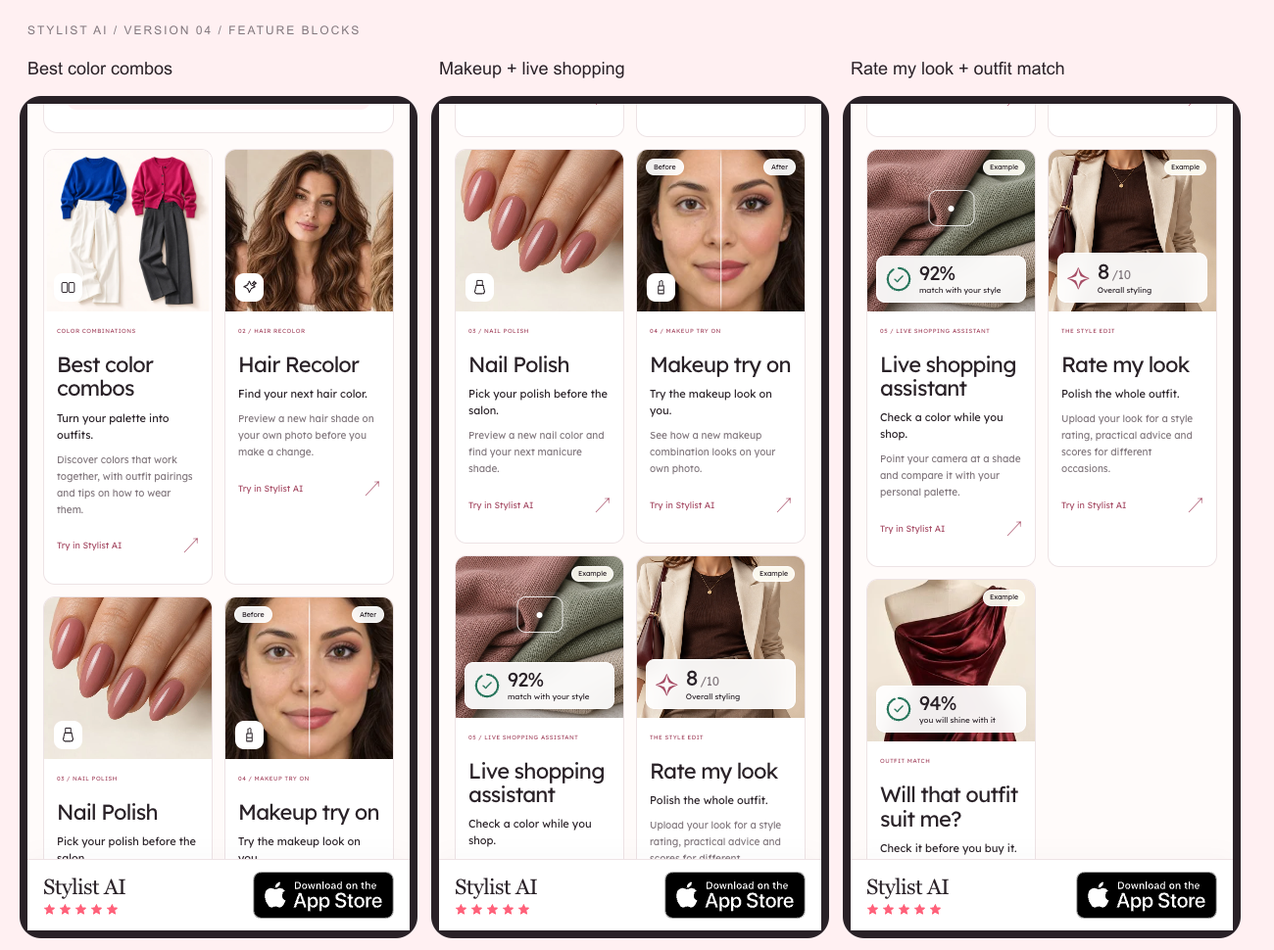
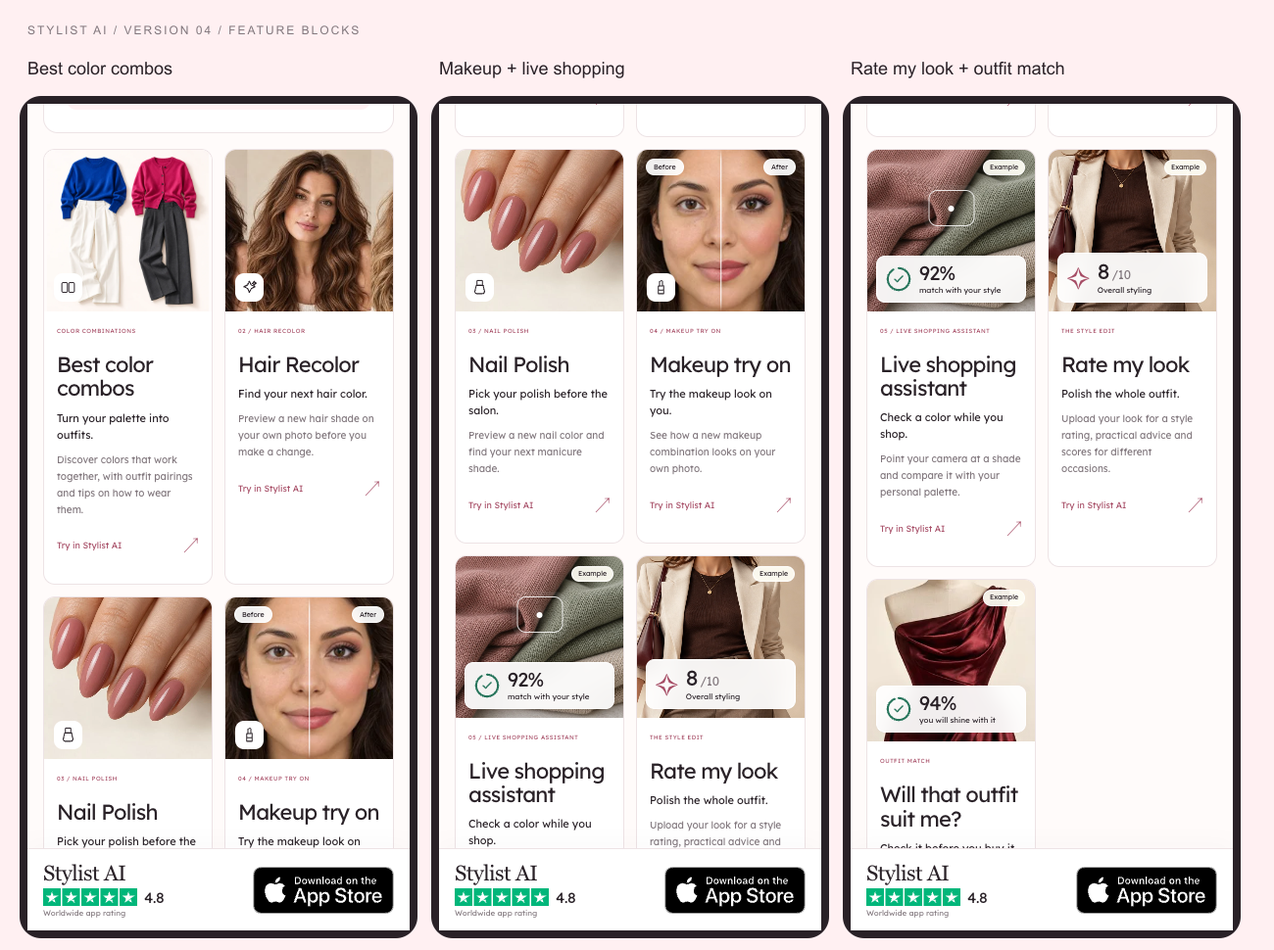
Show owner-supplied worldwide app rating in the download badge

diff --git a/stylist_ai/landing/v2/04-season-spectrum/index.html b/stylist_ai/landing/v2/04-season-spectrum/index.html
@@ -1,3 +1,3 @@
 <!doctype html><html lang="en"><head>
-<meta charset="utf-8"><meta name="viewport" content="width=device-width,initial-scale=1,viewport-fit=cover"><meta name="theme-color" content="#FFFBFA"><title>Find your color season — Stylist AI</title><meta name="description" content="Discover your color season and palette. Try hair and makeup looks, recolor nails, and take your palette shopping with Stylist AI for iPhone."><meta property="og:title" content="Your season. Your palette. Stylist AI."><meta property="og:description" content="Your Color Analysis, color combos, beauty tools, outfit advice & live shopping. Find your colors with Stylist AI."><meta property="og:type" content="website"><meta property="og:image" content="https://bestme.mobi/stylist_ai/landing/v2/assets/social-spectrum.jpg"><link rel="icon" href="../assets/icon.png"><link rel="stylesheet" href="../styles.css?v=2"><script src="../app.js?v=3" defer></script><link rel="stylesheet" href="./spectrum.css?v=9"></head>
-<body class="spectrum" data-variant="04-season-spectrum" id="top"><a class="skip" href="#main">Skip to content</a><header class="site-header container"><a class="brand" href="#top" aria-label="Stylist AI home"><img src="../assets/icon.png" width="28" height="28" alt=""><span>stylist <b>AI</b></span></a><span class="header-caption">COLOR ANALYSIS FOR iPHONE</span></header><main id="main"><section class="hero container" aria-label="Discover your color season"><div class="hero-intro"><h1>What’s your<br><em>color season?</em></h1><p>AI color analysis. Your color season, best palette, personal shopping advice.</p></div><div class="hero-proof"><div class="result-card"><div class="spectrum-pair"><div class="color-halo"><div class="face-photo"><img class="portrait" src="../assets/winter-model.jpg" width="834" height="1482" alt="Stylist AI ad model with subtle glowing facial landmark dots" fetchpriority="high"><img class="mesh" src="../assets/winter-landmarks.svg" width="834" height="1482" alt="" aria-hidden="true"></div></div><div class="season-result"><strong data-season-result>True Winter</strong><p class="traits"><span>Cool</span><span>Clear</span><span>High contrast</span></p></div></div><div class="palette hero-palette" data-first-palette aria-label="Sample True Winter color palette"><div class="color" style="--color:#F25A8D" title="Pink"><i></i></div><div class="color" style="--color:#9C1F50" title="Berry"><i></i></div><div class="color" style="--color:#7F3C7D" title="Orchid"><i></i></div><div class="color" style="--color:#4E1C60" title="Plum"><i></i></div><div class="color" style="--color:#17A59D" title="Teal"><i></i></div><div class="color" style="--color:#3AB3D1" title="Aqua"><i></i></div><div class="color" style="--color:#3C55A5" title="Cobalt"><i></i></div><div class="color" style="--color:#003A6E" title="Navy"><i></i></div></div><div class="season-tabs" role="group" aria-label="Preview example seasonal palettes"><button type="button" data-season="spring" aria-pressed="false">Spring</button><button type="button" data-season="summer" aria-pressed="false">Summer</button><button type="button" data-season="autumn" aria-pressed="false">Autumn</button><button type="button" data-season="winter" aria-pressed="true">Winter</button></div><span class="sample-disclaimer">Example palette. Find your own colors in the app.</span></div></div></section><section class="features container" id="features"><div class="section-heading"><span class="micro">YOUR COLORS, IN EVERYDAY LIFE.</span><h2>See what you can do.</h2></div><article id="passport" class="passport-feature" data-feature="passport"><div class="passport-feature-copy"><p class="number">01 / YOUR COLOR ANALYSIS</p><h3>Your Color Analysis</h3><p class="benefit">Your season. Your undertone. Your palette.</p><p>Keep your color profile close, from getting ready to choosing your next outfit.</p><ul><li>Your seasonal color type</li><li>Your personal palette</li><li>Color guidance for your look</li></ul></div><div class="passport-feature-art"><span class="micro">YOUR COLOR ANALYSIS · EXAMPLE</span><strong>True Winter</strong><div class="attribute-row"><span>Cool undertone</span><span>High contrast</span></div><div class="palette " aria-label="Sample True Winter color palette"><div class="color" style="--color:#F25A8D" title="Pink"><i></i><span>Pink</span></div><div class="color" style="--color:#9C1F50" title="Berry"><i></i><span>Berry</span></div><div class="color" style="--color:#7F3C7D" title="Orchid"><i></i><span>Orchid</span></div><div class="color" style="--color:#4E1C60" title="Plum"><i></i><span>Plum</span></div><div class="color" style="--color:#17A59D" title="Teal"><i></i><span>Teal</span></div><div class="color" style="--color:#3AB3D1" title="Aqua"><i></i><span>Aqua</span></div><div class="color" style="--color:#3C55A5" title="Cobalt"><i></i><span>Cobalt</span></div><div class="color" style="--color:#003A6E" title="Navy"><i></i><span>Navy</span></div></div></div></article><div class="feature-grid"><article class="feature-card" id="combos" data-feature="combos"><div class="feature-image"><img src="../assets/color-combos-ai.webp" width="960" height="960" loading="lazy" alt="Cobalt blue with icy white and raspberry pink with charcoal: two coordinated outfit color pairings"><span class="feature-image-icon"><svg viewBox="0 0 24 24" fill="none" stroke="currentColor" stroke-width="1.4" stroke-linecap="round" stroke-linejoin="round" aria-hidden="true"><rect x="3" y="5" width="8" height="14" rx="2"/><rect x="13" y="5" width="8" height="14" rx="2"/></svg></span></div><div class="feature-copy"><p class="number">COLOR COMBINATIONS</p><h3>Best color combos</h3><p class="benefit">Turn your palette into outfits.</p><p>Discover colors that work together, with outfit pairings and tips on how to wear them.</p><a href="https://apps.apple.com/app/id6739435502" target="_top" data-download data-placement="combos">Try in Stylist AI <span aria-hidden="true">↗</span></a></div></article><article class="feature-card" id="try-on" data-feature="try-on"><div class="feature-image"><img src="../assets/hair.webp" width="720" height="900" loading="lazy" alt="Hair Recolor example"><span class="feature-image-icon"><svg viewBox="0 0 24 24" fill="none" stroke="currentColor" stroke-width="1.5" stroke-linecap="round" stroke-linejoin="round" aria-hidden="true"><path d="m12 3 2.6 5.4L20 11l-5.4 2.6L12 19l-2.6-5.4L4 11l5.4-2.6Z"/><path d="m19 3 1 2 2 1-2 1-1 2-1-2-2-1 2-1Z"/></svg></span></div><div class="feature-copy"><p class="number">02 / HAIR RECOLOR</p><h3>Hair Recolor</h3><p class="benefit">Find your next hair color.</p><p>Preview a new hair shade on your own photo before you make a change.</p><a href="https://apps.apple.com/app/id6739435502" target="_top" data-download data-placement="try-on">Try in Stylist AI <span aria-hidden="true">↗</span></a></div></article><article class="feature-card" id="nails" data-feature="nails"><div class="feature-image"><img src="../assets/nails.webp" width="720" height="900" loading="lazy" alt="Nail Polish example"><span class="feature-image-icon"><svg viewBox="0 0 24 24" fill="none" stroke="currentColor" stroke-width="1.5" stroke-linecap="round" stroke-linejoin="round" aria-hidden="true"><rect x="8" y="2" width="8" height="7" rx="1"/><path d="M7 9h10l2 9a3 3 0 0 1-3 3H8a3 3 0 0 1-3-3Z"/></svg></span></div><div class="feature-copy"><p class="number">03 / NAIL POLISH</p><h3>Nail Polish</h3><p class="benefit">Pick your polish before the salon.</p><p>Preview a new nail color and find your next manicure shade.</p><a href="https://apps.apple.com/app/id6739435502" target="_top" data-download data-placement="nails">Try in Stylist AI <span aria-hidden="true">↗</span></a></div></article><article class="feature-card" id="makeup" data-feature="makeup"><div class="feature-image"><img src="../assets/makeup-try-on.webp" width="720" height="900" loading="lazy" alt="Before and after makeup try on example"><span class="feature-image-icon"><svg viewBox="0 0 24 24" fill="none" stroke="currentColor" stroke-width="1.5" stroke-linecap="round" stroke-linejoin="round" aria-hidden="true"><path d="M8 10h8v11H8zM10 10V4c0-1 4-3 4-1v7M8 16h8"/></svg></span><span class="makeup-divider" aria-hidden="true"></span><span class="makeup-label before">Before</span><span class="makeup-label after">After</span></div><div class="feature-copy"><p class="number">04 / MAKEUP TRY ON</p><h3>Makeup try on</h3><p class="benefit">Try the makeup look on you.</p><p>See how a new makeup combination looks on your own photo.</p><a href="https://apps.apple.com/app/id6739435502" target="_top" data-download data-placement="makeup">Try in Stylist AI <span aria-hidden="true">↗</span></a></div></article><article class="feature-card" id="shopping" data-feature="shopping"><div class="feature-image"><img src="../assets/shopping-fabric.jpg" width="720" height="900" loading="lazy" alt="Live shopping assistant example"><span class="shopping-scan" aria-hidden="true"><i></i></span><span class="art-example">Example</span><div class="match-overlay"><svg viewBox="0 0 40 40" aria-hidden="true"><circle cx="20" cy="20" r="16" fill="none" stroke="#e8efeb" stroke-width="3"/><circle cx="20" cy="20" r="16" fill="none" stroke="#28755c" stroke-width="3" stroke-linecap="round" stroke-dasharray="92 100" pathLength="100" transform="rotate(-90 20 20)"/><path d="m14 20 4 4 8-9" fill="none" stroke="#28755c" stroke-width="2" stroke-linecap="round" stroke-linejoin="round"/></svg><span><strong>92%</strong><small>match with your style</small></span></div></div><div class="feature-copy"><p class="number">05 / LIVE SHOPPING ASSISTANT</p><h3>Live shopping assistant</h3><p class="benefit">Check a color while you shop.</p><p>Point your camera at a shade and compare it with your personal palette.</p><a href="https://apps.apple.com/app/id6739435502" target="_top" data-download data-placement="shopping">Try in Stylist AI <span aria-hidden="true">↗</span></a></div></article><article class="feature-card" id="rate-look" data-feature="rate-look"><div class="feature-image"><img src="../assets/rate-look.jpg" loading="lazy" alt="Rate my look preview"><span class="art-example">Example</span><div class="look-rating"><span class="rating-star" aria-hidden="true">✧</span><span><strong>8<small>/10</small></strong><small>Overall styling</small></span></div></div><div class="feature-copy"><p class="number">THE STYLE EDIT</p><h3>Rate my look</h3><p class="benefit">Polish the whole outfit.</p><p>Upload your look for a style rating, practical advice and scores for different occasions.</p><a href="https://apps.apple.com/app/id6739435502" target="_top" data-download data-placement="rate-look">Try in Stylist AI <span aria-hidden="true">↗</span></a></div></article><article class="feature-card" id="outfit-match" data-feature="outfit-match"><div class="feature-image"><img src="../assets/outfit.webp" loading="lazy" alt="Will that outfit suit me? preview"><span class="art-example">Example</span><div class="match-overlay"><svg viewBox="0 0 40 40" aria-hidden="true"><circle cx="20" cy="20" r="16" fill="none" stroke="#e8efeb" stroke-width="3"/><circle cx="20" cy="20" r="16" fill="none" stroke="#28755c" stroke-width="3" stroke-linecap="round" stroke-dasharray="94 100" pathLength="100" transform="rotate(-90 20 20)"/><path d="m14 20 4 4 8-9" fill="none" stroke="#28755c" stroke-width="2" stroke-linecap="round" stroke-linejoin="round"/></svg><span><strong>94%</strong><small>you will shine with it</small></span></div></div><div class="feature-copy"><p class="number">OUTFIT MATCH</p><h3>Will that outfit suit me?</h3><p class="benefit">Check it before you buy it.</p><p>Upload an outfit photo to see how its colors work with your season and personal palette.</p><a href="https://apps.apple.com/app/id6739435502" target="_top" data-download data-placement="outfit-match">Try in Stylist AI <span aria-hidden="true">↗</span></a></div></article></div></section><section class="how container"><div><span class="micro">START WITH A SELFIE</span><h2>Your colors, in three steps.</h2></div><ol><li><b>01</b><span>Download Stylist AI</span></li><li><b>02</b><span>Add a clear photo in natural light</span></li><li><b>03</b><span>Discover your season & try your colors</span></li></ol></section><section class="closing container"><p class="micro">YOUR SEASON IS JUST THE START</p><h2>Find your colors.<br>Try them on you.</h2><p>Color analysis, beauty try-on & shopping — in one app.</p></section></main><footer class="container"><a class="brand" href="#top" aria-label="Stylist AI home"><img src="../assets/icon.png" width="28" height="28" alt=""><span>stylist <b>AI</b></span></a><div class="legal-links"><a href="https://bestme.mobi/stylist-ai-privacy-policy.html">Privacy</a><a href="https://bestme.mobi/stylist-ai-terms-of-use.html">Terms</a><a href="https://bestme.mobi/support.html">Support</a></div><p>Example imagery, palettes and scores. Results vary. © Aleksandr Korenev.</p><p>Apple and the Apple logo are trademarks of Apple Inc. App Store is a service mark of Apple Inc.</p></footer><aside class="download-dock" aria-label="Download Stylist AI"><div class="dock-inner"><div class="dock-copy"><strong>Stylist AI</strong><span class="dock-stars" aria-hidden="true"><svg viewBox="0 0 20 20"><path d="m10 1 2.7 5.7 6.3.9-4.5 4.4 1.1 6.2-5.6-3-5.6 3 1.1-6.2L1 7.6l6.3-.9Z"/></svg><svg viewBox="0 0 20 20"><path d="m10 1 2.7 5.7 6.3.9-4.5 4.4 1.1 6.2-5.6-3-5.6 3 1.1-6.2L1 7.6l6.3-.9Z"/></svg><svg viewBox="0 0 20 20"><path d="m10 1 2.7 5.7 6.3.9-4.5 4.4 1.1 6.2-5.6-3-5.6 3 1.1-6.2L1 7.6l6.3-.9Z"/></svg><svg viewBox="0 0 20 20"><path d="m10 1 2.7 5.7 6.3.9-4.5 4.4 1.1 6.2-5.6-3-5.6 3 1.1-6.2L1 7.6l6.3-.9Z"/></svg><svg viewBox="0 0 20 20"><path d="m10 1 2.7 5.7 6.3.9-4.5 4.4 1.1 6.2-5.6-3-5.6 3 1.1-6.2L1 7.6l6.3-.9Z"/></svg></span></div><a class="app-store" href="https://apps.apple.com/app/id6739435502" target="_top" data-download data-placement="sticky" aria-label="Download Stylist AI on the App Store"><img src="../assets/app-store.svg" width="150" height="50" alt="Download on the App Store"></a></div></aside></body></html>
+<meta charset="utf-8"><meta name="viewport" content="width=device-width,initial-scale=1,viewport-fit=cover"><meta name="theme-color" content="#FFFBFA"><title>Find your color season — Stylist AI</title><meta name="description" content="Discover your color season and palette. Try hair and makeup looks, recolor nails, and take your palette shopping with Stylist AI for iPhone."><meta property="og:title" content="Your season. Your palette. Stylist AI."><meta property="og:description" content="Your Color Analysis, color combos, beauty tools, outfit advice & live shopping. Find your colors with Stylist AI."><meta property="og:type" content="website"><meta property="og:image" content="https://bestme.mobi/stylist_ai/landing/v2/assets/social-spectrum.jpg"><link rel="icon" href="../assets/icon.png"><link rel="stylesheet" href="../styles.css?v=2"><script src="../app.js?v=3" defer></script><link rel="stylesheet" href="./spectrum.css?v=10"></head>
+<body class="spectrum" data-variant="04-season-spectrum" id="top"><a class="skip" href="#main">Skip to content</a><header class="site-header container"><a class="brand" href="#top" aria-label="Stylist AI home"><img src="../assets/icon.png" width="28" height="28" alt=""><span>stylist <b>AI</b></span></a><span class="header-caption">COLOR ANALYSIS FOR iPHONE</span></header><main id="main"><section class="hero container" aria-label="Discover your color season"><div class="hero-intro"><h1>What’s your<br><em>color season?</em></h1><p>AI color analysis. Your color season, best palette, personal shopping advice.</p></div><div class="hero-proof"><div class="result-card"><div class="spectrum-pair"><div class="color-halo"><div class="face-photo"><img class="portrait" src="../assets/winter-model.jpg" width="834" height="1482" alt="Stylist AI ad model with subtle glowing facial landmark dots" fetchpriority="high"><img class="mesh" src="../assets/winter-landmarks.svg" width="834" height="1482" alt="" aria-hidden="true"></div></div><div class="season-result"><strong data-season-result>True Winter</strong><p class="traits"><span>Cool</span><span>Clear</span><span>High contrast</span></p></div></div><div class="palette hero-palette" data-first-palette aria-label="Sample True Winter color palette"><div class="color" style="--color:#F25A8D" title="Pink"><i></i></div><div class="color" style="--color:#9C1F50" title="Berry"><i></i></div><div class="color" style="--color:#7F3C7D" title="Orchid"><i></i></div><div class="color" style="--color:#4E1C60" title="Plum"><i></i></div><div class="color" style="--color:#17A59D" title="Teal"><i></i></div><div class="color" style="--color:#3AB3D1" title="Aqua"><i></i></div><div class="color" style="--color:#3C55A5" title="Cobalt"><i></i></div><div class="color" style="--color:#003A6E" title="Navy"><i></i></div></div><div class="season-tabs" role="group" aria-label="Preview example seasonal palettes"><button type="button" data-season="spring" aria-pressed="false">Spring</button><button type="button" data-season="summer" aria-pressed="false">Summer</button><button type="button" data-season="autumn" aria-pressed="false">Autumn</button><button type="button" data-season="winter" aria-pressed="true">Winter</button></div><span class="sample-disclaimer">Example palette. Find your own colors in the app.</span></div></div></section><section class="features container" id="features"><div class="section-heading"><span class="micro">YOUR COLORS, IN EVERYDAY LIFE.</span><h2>See what you can do.</h2></div><article id="passport" class="passport-feature" data-feature="passport"><div class="passport-feature-copy"><p class="number">01 / YOUR COLOR ANALYSIS</p><h3>Your Color Analysis</h3><p class="benefit">Your season. Your undertone. Your palette.</p><p>Keep your color profile close, from getting ready to choosing your next outfit.</p><ul><li>Your seasonal color type</li><li>Your personal palette</li><li>Color guidance for your look</li></ul></div><div class="passport-feature-art"><span class="micro">YOUR COLOR ANALYSIS · EXAMPLE</span><strong>True Winter</strong><div class="attribute-row"><span>Cool undertone</span><span>High contrast</span></div><div class="palette " aria-label="Sample True Winter color palette"><div class="color" style="--color:#F25A8D" title="Pink"><i></i><span>Pink</span></div><div class="color" style="--color:#9C1F50" title="Berry"><i></i><span>Berry</span></div><div class="color" style="--color:#7F3C7D" title="Orchid"><i></i><span>Orchid</span></div><div class="color" style="--color:#4E1C60" title="Plum"><i></i><span>Plum</span></div><div class="color" style="--color:#17A59D" title="Teal"><i></i><span>Teal</span></div><div class="color" style="--color:#3AB3D1" title="Aqua"><i></i><span>Aqua</span></div><div class="color" style="--color:#3C55A5" title="Cobalt"><i></i><span>Cobalt</span></div><div class="color" style="--color:#003A6E" title="Navy"><i></i><span>Navy</span></div></div></div></article><div class="feature-grid"><article class="feature-card" id="combos" data-feature="combos"><div class="feature-image"><img src="../assets/color-combos-ai.webp" width="960" height="960" loading="lazy" alt="Cobalt blue with icy white and raspberry pink with charcoal: two coordinated outfit color pairings"><span class="feature-image-icon"><svg viewBox="0 0 24 24" fill="none" stroke="currentColor" stroke-width="1.4" stroke-linecap="round" stroke-linejoin="round" aria-hidden="true"><rect x="3" y="5" width="8" height="14" rx="2"/><rect x="13" y="5" width="8" height="14" rx="2"/></svg></span></div><div class="feature-copy"><p class="number">COLOR COMBINATIONS</p><h3>Best color combos</h3><p class="benefit">Turn your palette into outfits.</p><p>Discover colors that work together, with outfit pairings and tips on how to wear them.</p><a href="https://apps.apple.com/app/id6739435502" target="_top" data-download data-placement="combos">Try in Stylist AI <span aria-hidden="true">↗</span></a></div></article><article class="feature-card" id="try-on" data-feature="try-on"><div class="feature-image"><img src="../assets/hair.webp" width="720" height="900" loading="lazy" alt="Hair Recolor example"><span class="feature-image-icon"><svg viewBox="0 0 24 24" fill="none" stroke="currentColor" stroke-width="1.5" stroke-linecap="round" stroke-linejoin="round" aria-hidden="true"><path d="m12 3 2.6 5.4L20 11l-5.4 2.6L12 19l-2.6-5.4L4 11l5.4-2.6Z"/><path d="m19 3 1 2 2 1-2 1-1 2-1-2-2-1 2-1Z"/></svg></span></div><div class="feature-copy"><p class="number">02 / HAIR RECOLOR</p><h3>Hair Recolor</h3><p class="benefit">Find your next hair color.</p><p>Preview a new hair shade on your own photo before you make a change.</p><a href="https://apps.apple.com/app/id6739435502" target="_top" data-download data-placement="try-on">Try in Stylist AI <span aria-hidden="true">↗</span></a></div></article><article class="feature-card" id="nails" data-feature="nails"><div class="feature-image"><img src="../assets/nails.webp" width="720" height="900" loading="lazy" alt="Nail Polish example"><span class="feature-image-icon"><svg viewBox="0 0 24 24" fill="none" stroke="currentColor" stroke-width="1.5" stroke-linecap="round" stroke-linejoin="round" aria-hidden="true"><rect x="8" y="2" width="8" height="7" rx="1"/><path d="M7 9h10l2 9a3 3 0 0 1-3 3H8a3 3 0 0 1-3-3Z"/></svg></span></div><div class="feature-copy"><p class="number">03 / NAIL POLISH</p><h3>Nail Polish</h3><p class="benefit">Pick your polish before the salon.</p><p>Preview a new nail color and find your next manicure shade.</p><a href="https://apps.apple.com/app/id6739435502" target="_top" data-download data-placement="nails">Try in Stylist AI <span aria-hidden="true">↗</span></a></div></article><article class="feature-card" id="makeup" data-feature="makeup"><div class="feature-image"><img src="../assets/makeup-try-on.webp" width="720" height="900" loading="lazy" alt="Before and after makeup try on example"><span class="feature-image-icon"><svg viewBox="0 0 24 24" fill="none" stroke="currentColor" stroke-width="1.5" stroke-linecap="round" stroke-linejoin="round" aria-hidden="true"><path d="M8 10h8v11H8zM10 10V4c0-1 4-3 4-1v7M8 16h8"/></svg></span><span class="makeup-divider" aria-hidden="true"></span><span class="makeup-label before">Before</span><span class="makeup-label after">After</span></div><div class="feature-copy"><p class="number">04 / MAKEUP TRY ON</p><h3>Makeup try on</h3><p class="benefit">Try the makeup look on you.</p><p>See how a new makeup combination looks on your own photo.</p><a href="https://apps.apple.com/app/id6739435502" target="_top" data-download data-placement="makeup">Try in Stylist AI <span aria-hidden="true">↗</span></a></div></article><article class="feature-card" id="shopping" data-feature="shopping"><div class="feature-image"><img src="../assets/shopping-fabric.jpg" width="720" height="900" loading="lazy" alt="Live shopping assistant example"><span class="shopping-scan" aria-hidden="true"><i></i></span><span class="art-example">Example</span><div class="match-overlay"><svg viewBox="0 0 40 40" aria-hidden="true"><circle cx="20" cy="20" r="16" fill="none" stroke="#e8efeb" stroke-width="3"/><circle cx="20" cy="20" r="16" fill="none" stroke="#28755c" stroke-width="3" stroke-linecap="round" stroke-dasharray="92 100" pathLength="100" transform="rotate(-90 20 20)"/><path d="m14 20 4 4 8-9" fill="none" stroke="#28755c" stroke-width="2" stroke-linecap="round" stroke-linejoin="round"/></svg><span><strong>92%</strong><small>match with your style</small></span></div></div><div class="feature-copy"><p class="number">05 / LIVE SHOPPING ASSISTANT</p><h3>Live shopping assistant</h3><p class="benefit">Check a color while you shop.</p><p>Point your camera at a shade and compare it with your personal palette.</p><a href="https://apps.apple.com/app/id6739435502" target="_top" data-download data-placement="shopping">Try in Stylist AI <span aria-hidden="true">↗</span></a></div></article><article class="feature-card" id="rate-look" data-feature="rate-look"><div class="feature-image"><img src="../assets/rate-look.jpg" loading="lazy" alt="Rate my look preview"><span class="art-example">Example</span><div class="look-rating"><span class="rating-star" aria-hidden="true">✧</span><span><strong>8<small>/10</small></strong><small>Overall styling</small></span></div></div><div class="feature-copy"><p class="number">THE STYLE EDIT</p><h3>Rate my look</h3><p class="benefit">Polish the whole outfit.</p><p>Upload your look for a style rating, practical advice and scores for different occasions.</p><a href="https://apps.apple.com/app/id6739435502" target="_top" data-download data-placement="rate-look">Try in Stylist AI <span aria-hidden="true">↗</span></a></div></article><article class="feature-card" id="outfit-match" data-feature="outfit-match"><div class="feature-image"><img src="../assets/outfit.webp" loading="lazy" alt="Will that outfit suit me? preview"><span class="art-example">Example</span><div class="match-overlay"><svg viewBox="0 0 40 40" aria-hidden="true"><circle cx="20" cy="20" r="16" fill="none" stroke="#e8efeb" stroke-width="3"/><circle cx="20" cy="20" r="16" fill="none" stroke="#28755c" stroke-width="3" stroke-linecap="round" stroke-dasharray="94 100" pathLength="100" transform="rotate(-90 20 20)"/><path d="m14 20 4 4 8-9" fill="none" stroke="#28755c" stroke-width="2" stroke-linecap="round" stroke-linejoin="round"/></svg><span><strong>94%</strong><small>you will shine with it</small></span></div></div><div class="feature-copy"><p class="number">OUTFIT MATCH</p><h3>Will that outfit suit me?</h3><p class="benefit">Check it before you buy it.</p><p>Upload an outfit photo to see how its colors work with your season and personal palette.</p><a href="https://apps.apple.com/app/id6739435502" target="_top" data-download data-placement="outfit-match">Try in Stylist AI <span aria-hidden="true">↗</span></a></div></article></div></section><section class="how container"><div><span class="micro">START WITH A SELFIE</span><h2>Your colors, in three steps.</h2></div><ol><li><b>01</b><span>Download Stylist AI</span></li><li><b>02</b><span>Add a clear photo in natural light</span></li><li><b>03</b><span>Discover your season & try your colors</span></li></ol></section><section class="closing container"><p class="micro">YOUR SEASON IS JUST THE START</p><h2>Find your colors.<br>Try them on you.</h2><p>Color analysis, beauty try-on & shopping — in one app.</p></section></main><footer class="container"><a class="brand" href="#top" aria-label="Stylist AI home"><img src="../assets/icon.png" width="28" height="28" alt=""><span>stylist <b>AI</b></span></a><div class="legal-links"><a href="https://bestme.mobi/stylist-ai-privacy-policy.html">Privacy</a><a href="https://bestme.mobi/stylist-ai-terms-of-use.html">Terms</a><a href="https://bestme.mobi/support.html">Support</a></div><p>Example imagery, palettes and scores. Results vary. © Aleksandr Korenev.</p><p>Apple and the Apple logo are trademarks of Apple Inc. App Store is a service mark of Apple Inc.</p></footer><aside class="download-dock" aria-label="Download Stylist AI"><div class="dock-inner"><div class="dock-copy"><strong>Stylist AI</strong><span class="dock-rating" aria-label="4.8 out of 5"><img class="dock-stars" src="../assets/rating-stars.svg" width="96" height="18" alt="" aria-hidden="true"><b class="dock-score">4.8</b></span><span class="dock-rating-label">Worldwide app rating</span></div><a class="app-store" href="https://apps.apple.com/app/id6739435502" target="_top" data-download data-placement="sticky" aria-label="Download Stylist AI on the App Store"><img src="../assets/app-store.svg" width="150" height="50" alt="Download on the App Store"></a></div></aside></body></html>

diff --git a/stylist_ai/landing/v2/04-season-spectrum/spectrum.css b/stylist_ai/landing/v2/04-season-spectrum/spectrum.css
@@ -44,8 +44,11 @@
 .spectrum .download-dock { background: #fff; border-color: var(--line); color: var(--ink); box-shadow: 0 -6px 22px #29212705; }
 .spectrum .dock-copy span { color: #81777d; }
 .spectrum .dock-copy strong { font: 22px/1.15 Georgia, serif; letter-spacing: -.5px; }
-.spectrum .dock-copy .dock-stars { display: flex; gap: 3px; color: #ff617a; line-height: 0; }
-.spectrum .dock-stars svg { width: 13px; height: 13px; fill: currentColor; }
+.spectrum .dock-copy { gap: 3px; }
+.spectrum .dock-copy .dock-rating { display: flex; align-items: center; gap: 7px; color: var(--ink); line-height: 1; }
+.spectrum .dock-stars { width: 96px; height: 18px; flex-shrink: 0; }
+.spectrum .dock-score { font-size: 15px; font-weight: 500; letter-spacing: -.4px; }
+.spectrum .dock-copy .dock-rating-label { font-size: 8px; line-height: 1.2; }
 .spectrum .feature-grid { grid-template-columns: repeat(3, minmax(0, 1fr)); }
 .spectrum .makeup-divider { position: absolute; top: 0; bottom: 0; left: 50%; width: 1.5px; transform: translateX(-50%); background: linear-gradient(transparent, #fff 7%, #fff 93%, transparent); box-shadow: 0 0 5px #29212735; pointer-events: none; }
 .spectrum .makeup-label { position: absolute; top: 12px; background: #ffffffed; color: var(--ink); padding: 5px 8px; border: 1px solid #ffffffb3; border-radius: 20px; font-size: 9px; line-height: 1; }
